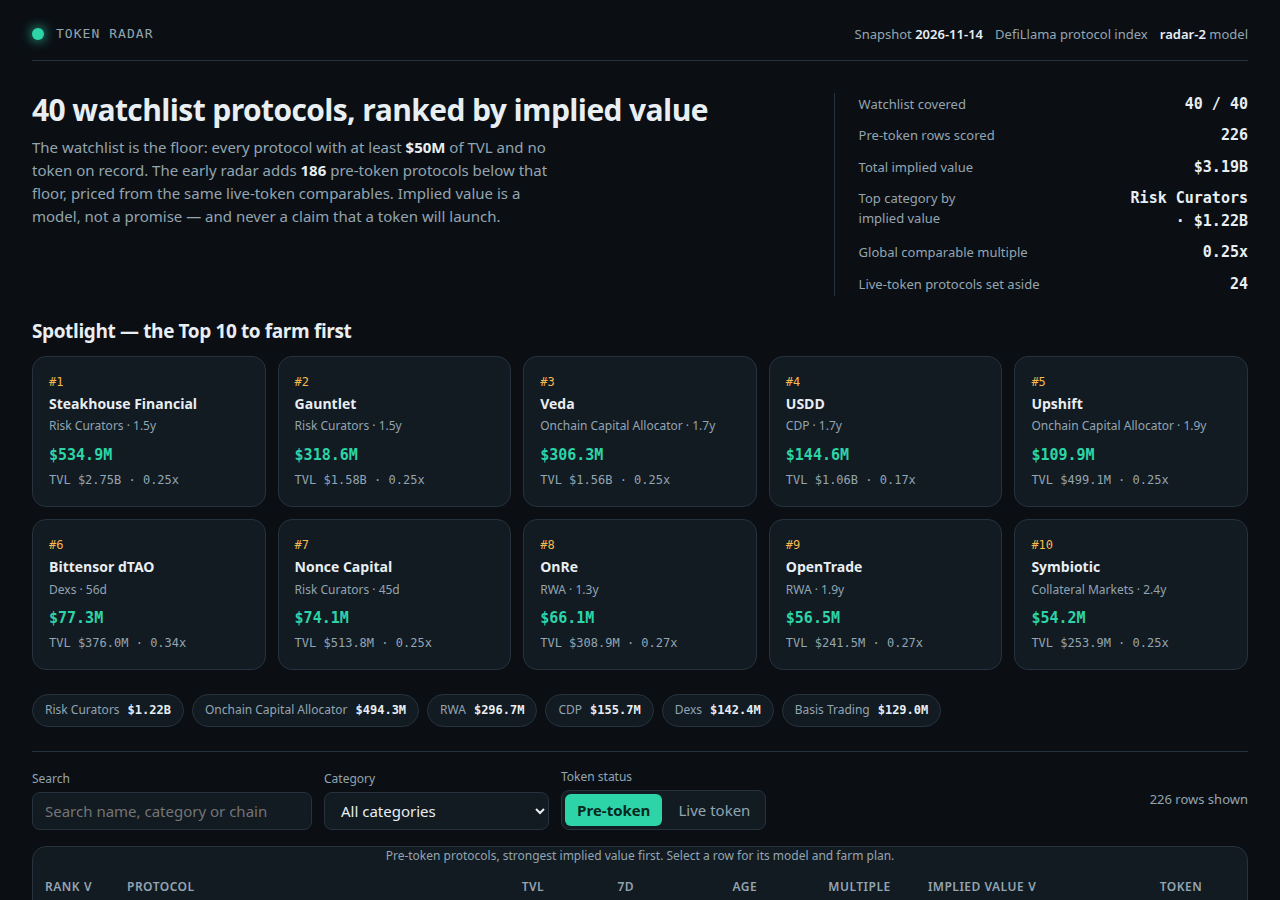
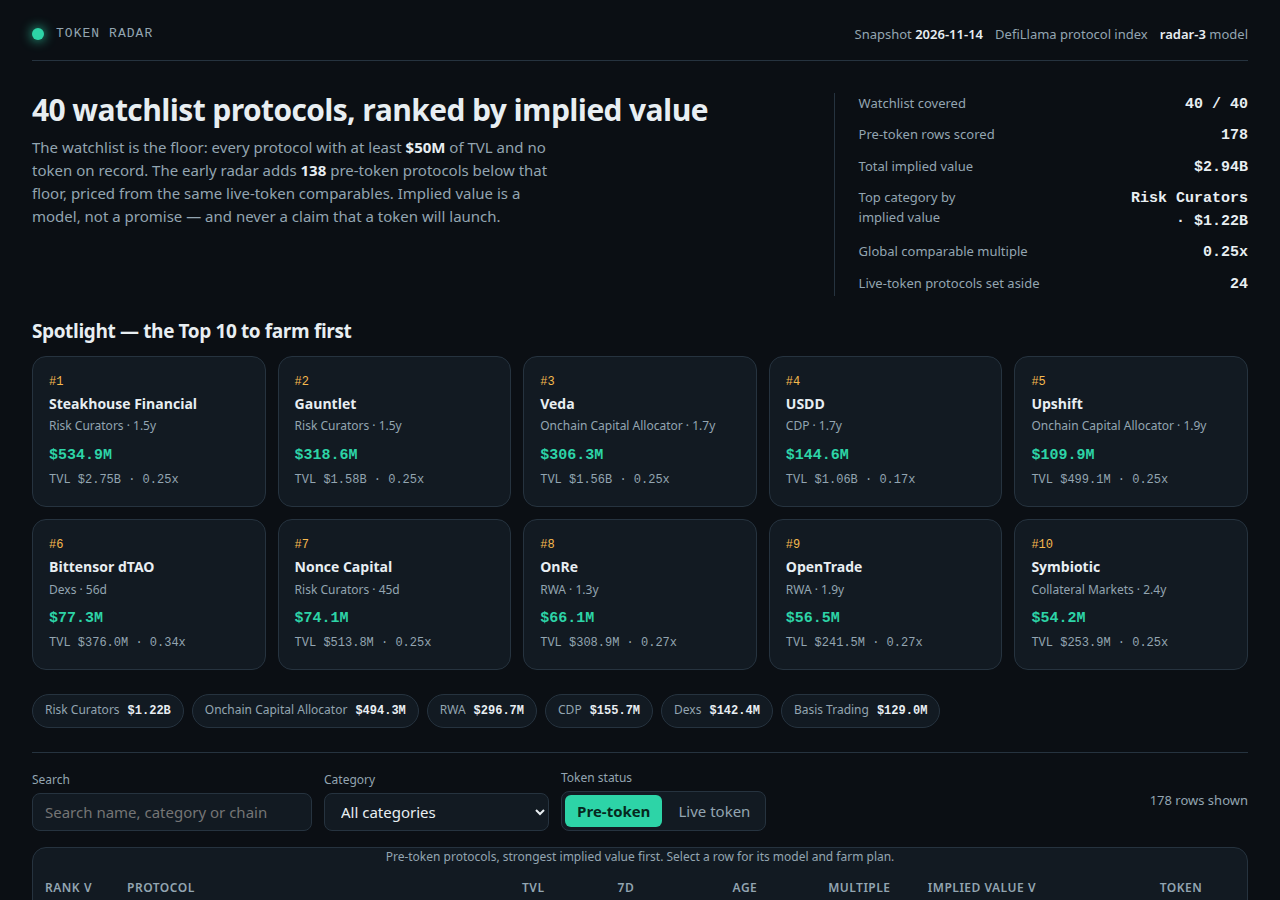
Token Radar radar-3: early radar applies the watchlist's wrapped/staked/bridged rule
radar-2 ranked 48 wrapped, staked and bridged products in the early
rows (8 of them in the top 50: Ink Bridge, PulseChain Bridge, Polygon
zkEVM Bridge, TxFlow Bridge, SuiBridge, Scroll Bridge, Ring Few,
ObeliskBTC) and flooded the board's tail with liquid-staking receipts.
A receipt for a token that already trades is not a launch candidate,
so isRankable now applies the house's own watchlist rule to the early
radar too: no Bridge, Canonical Bridge, Liquid Staking, Liquid
Restaking or Restaked BTC category, no whole word wrapped, staked or
staking in the name, no exchange's name at the start.

Board: 226 -> 178 rows (40 watchlist + 138 early), top 10 unchanged,
total implied $3.19B -> $2.94B. Screenshots re-rendered from the new
dashboard; two runs write byte-identical output.

diff --git a/lib/model.ts b/lib/model.ts
@@ -1,11 +1,17 @@
-// Token Radar model v2 ("radar-2"): comparable multiples, not a flat TVL haircut.
+// Token Radar model v3 ("radar-3"): comparable multiples, not a flat TVL haircut.
 //
 // The board covers every slug in the snapshot's watchlist (the floor, never a
 // ceiling) plus pre-token protocols below the watchlist floor: the early rows
 // the radar exists to find. A protocol is pre-token when its record carries no
 // token (no market cap, no CoinGecko id, no symbol); live-token protocols are
 // kept apart and shown with the market's own values, never mixed into the
-// ranked board.
+// ranked board. Wrapped, staked and bridged products are set aside with them:
+// a receipt for a token that already trades is not a launch candidate, so the
+// early radar applies the watchlist's own rule — no Bridge, Canonical Bridge,
+// Liquid Staking, Liquid Restaking or Restaked BTC category, no whole word
+// wrapped, staked or staking in the name, and no exchange's name at the
+// start — instead of ranking bridges and liquid-staking receipts beside
+// protocols whose token does not exist yet.
 //
 // Implied value follows only from the snapshot's own figures:
 //
@@ -87,7 +93,7 @@ export const MODEL: ModelConstants = {
 };
 
 /** The model's version label: the dashboard names it. */
-export const MODEL_VERSION = 'radar-2';
+export const MODEL_VERSION = 'radar-3';
 
 /** How many pre-token protocols below the watchlist floor the early radar carries, by TVL. */
 export const EARLY_ROWS = 200;
@@ -322,9 +328,29 @@ export function isPreToken(p: SnapshotProtocol): boolean {
   return p.mcap_usd === null && p.gecko_id === null && p.symbol === null;
 }
 
-/** Whether a protocol is one the board may rank: pre-token, not an exchange, not a versioned pool. */
+/**
+ * The watchlist's own wrapped/staked/bridged rule, applied to the early radar
+ * too: a receipt for a token that already trades is not a launch candidate.
+ * Categories that only move another token across, stake it or restake it; a
+ * whole word wrapped, staked or staking in the name; or a name that begins
+ * with an exchange's name. The rule is the house's watchlist rule, word for
+ * word, so the early rows a reader finds are held to the same bar as the
+ * watchlist itself.
+ */
+const WRAPPED_CATEGORIES = new Set(['Bridge', 'Canonical Bridge', 'Liquid Staking', 'Liquid Restaking', 'Restaked BTC', 'CEX']);
+const WRAPPED_WORD = /\b(wrapped|staked|staking)\b/i;
+const EXCHANGE_PREFIXES = ['binance', 'coinbase', 'bybit', 'kraken', 'bitget', 'okx', 'bitfinex', 'gemini'];
+
+export function isWrappedOrStakedProduct(p: SnapshotProtocol): boolean {
+  if (WRAPPED_CATEGORIES.has(p.category ?? '')) return true;
+  if (WRAPPED_WORD.test(p.name)) return true;
+  const lower = p.name.toLowerCase();
+  return EXCHANGE_PREFIXES.some((prefix) => lower.startsWith(prefix));
+}
+
+/** Whether a protocol is one the board may rank: pre-token, not an exchange, not a versioned pool, not a wrapped, staked or bridged product. */
 export function isRankable(p: SnapshotProtocol): boolean {
-  return isPreToken(p) && p.category !== 'CEX' && !VERSIONED.test(p.name);
+  return isPreToken(p) && p.category !== 'CEX' && !VERSIONED.test(p.name) && !isWrappedOrStakedProduct(p);
 }
 
 /** The snapshot's protocol by slug. */

diff --git a/dashboard/app.js b/dashboard/app.js
@@ -1,4 +1,4 @@
-// Token Radar dashboard (model radar-2). It reads window.RADAR (written beside
+// Token Radar dashboard (model radar-3). It reads window.RADAR (written beside
 // dashboard/ by main.ts) and renders the ranked board, a Top 10 spotlight, a
 // filterable sortable table, a per-protocol detail drawer with the model's own
 // inputs and the protocol's farm plan, and the full methodology. No network:
@@ -439,7 +439,7 @@
         el('b', { text: 'Why the clamp. ' }),
         'Above 1.00x, a launch would be worth more than the value locked in the protocol — no comparable supports that. ',
         el('b', { text: 'Floor and early rows. ' }),
-        'The watchlist (TVL at or above $' + Math.round(DATA.floor_usd / 1e6) + 'M, no token on record, not a wrapped, staked or bridged product) is the floor; the early radar adds ' + DATA.early_size + ' pre-token protocols below it by TVL. ',
+        'The watchlist (TVL at or above $' + Math.round(DATA.floor_usd / 1e6) + 'M, no token on record, not a wrapped, staked or bridged product) is the floor; the early radar adds ' + DATA.early_size + ' pre-token protocols below it by TVL, held to the same rule — a bridge, a liquid-staking receipt or any other wrapped or staked product of a token that already trades is set aside, never ranked as a launch. ',
         el('b', { text: 'Live tokens. ' }),
         'Protocols whose token already trades are set aside with their market caps and never ranked — they are the comparables, not the candidates. “No token” always means “no token on record”.'
       )

diff --git a/README.md b/README.md
@@ -4,7 +4,7 @@
 [![rank](https://make.fun/badge/token-radar-01/slow-respon/token-launch-radar/rank.svg)](https://make.fun/bounty/token-radar-01/leaderboard?utm_source=github&utm_medium=readme&utm_campaign=token-radar-01)
 [![reward](https://make.fun/badge/token-radar-01/slow-respon/token-launch-radar/reward.svg)](https://make.fun/bounty/token-radar-01?utm_source=github&utm_medium=readme&utm_campaign=token-radar-01)
 
-Token Radar ranks pre-token protocols by implied launch value and shows how to farm each one. It reads a sealed DefiLlama snapshot (758 protocols, 40 on the watchlist), prices every pre-token protocol from live-token comparables in the same snapshot, and writes a static offline dashboard: a Top 10 spotlight, a sortable and filterable board, a detail view per protocol with the full model breakdown, and a 7-step farm plan per protocol.
+Token Radar ranks pre-token protocols by implied launch value and shows how to farm each one. It reads a sealed DefiLlama snapshot (758 protocols, 40 on the watchlist), prices every pre-token protocol from live-token comparables in the same snapshot, and writes a static offline dashboard: a Top 10 spotlight, a sortable and filterable board, a detail view per protocol with the full model breakdown, and a 7-step farm plan per protocol. Wrapped, staked and bridged products are set aside with the live tokens — a receipt for a token that already trades is not a launch candidate — so the board holds only protocols whose token does not exist yet.
 
 ## Run it
 
@@ -14,7 +14,7 @@ mkdir -p out && MAKEFUN_OUTPUT_DIR=out node main.ts --input /path/to/snapshot.js
 
 Node.js 22.18 or later, standard library only, no network. The program writes `out/board.json`, `out/data.js`, `out/dashboard/`, `out/screenshots/` and `out/dossier.json`. Run it twice and the outputs are byte-identical.
 
-## The model (radar-2)
+## The model (radar-3)
 
 Implied value is computed from the snapshot's own figures only — no protocol is ever special-cased by name:
 
@@ -29,7 +29,7 @@ implied            = round(tvl_usd * multiple(category) * growthMult * maturityM
 
 On this snapshot the global median is 0.246x; 13 categories are priced from their own live peers (for example Dexs 0.34x, Lending 0.13x, RWA 0.27x, Liquid Staking 0.04x) and the rest inherit the global median, flagged as a fallback in the dashboard. Medians, not means: a few live tokens trade at extreme mcap/TVL ratios, and a mean would let one outlier price a whole category. The clamp keeps a launch from being valued above the value locked in the protocol.
 
-The board covers all 40 watchlist protocols plus 186 pre-token protocols below the $50M floor, ranked by implied value (226 rows). Live-token protocols are set aside with their market caps — they are the comparables, not the candidates. "No token" always means "no token on record".
+The board covers all 40 watchlist protocols plus 138 pre-token protocols below the $50M floor, ranked by implied value (178 rows). Wrapped, staked and bridged products are excluded from the early radar by the watchlist's own rule — no Bridge, Canonical Bridge, Liquid Staking, Liquid Restaking or Restaked BTC category, no whole word wrapped, staked or staking in the name, no exchange's name at the start — because their value is the token that already trades. Live-token protocols are set aside with their market caps — they are the comparables, not the candidates. "No token" always means "no token on record".
 
 ## Farm plans
 
